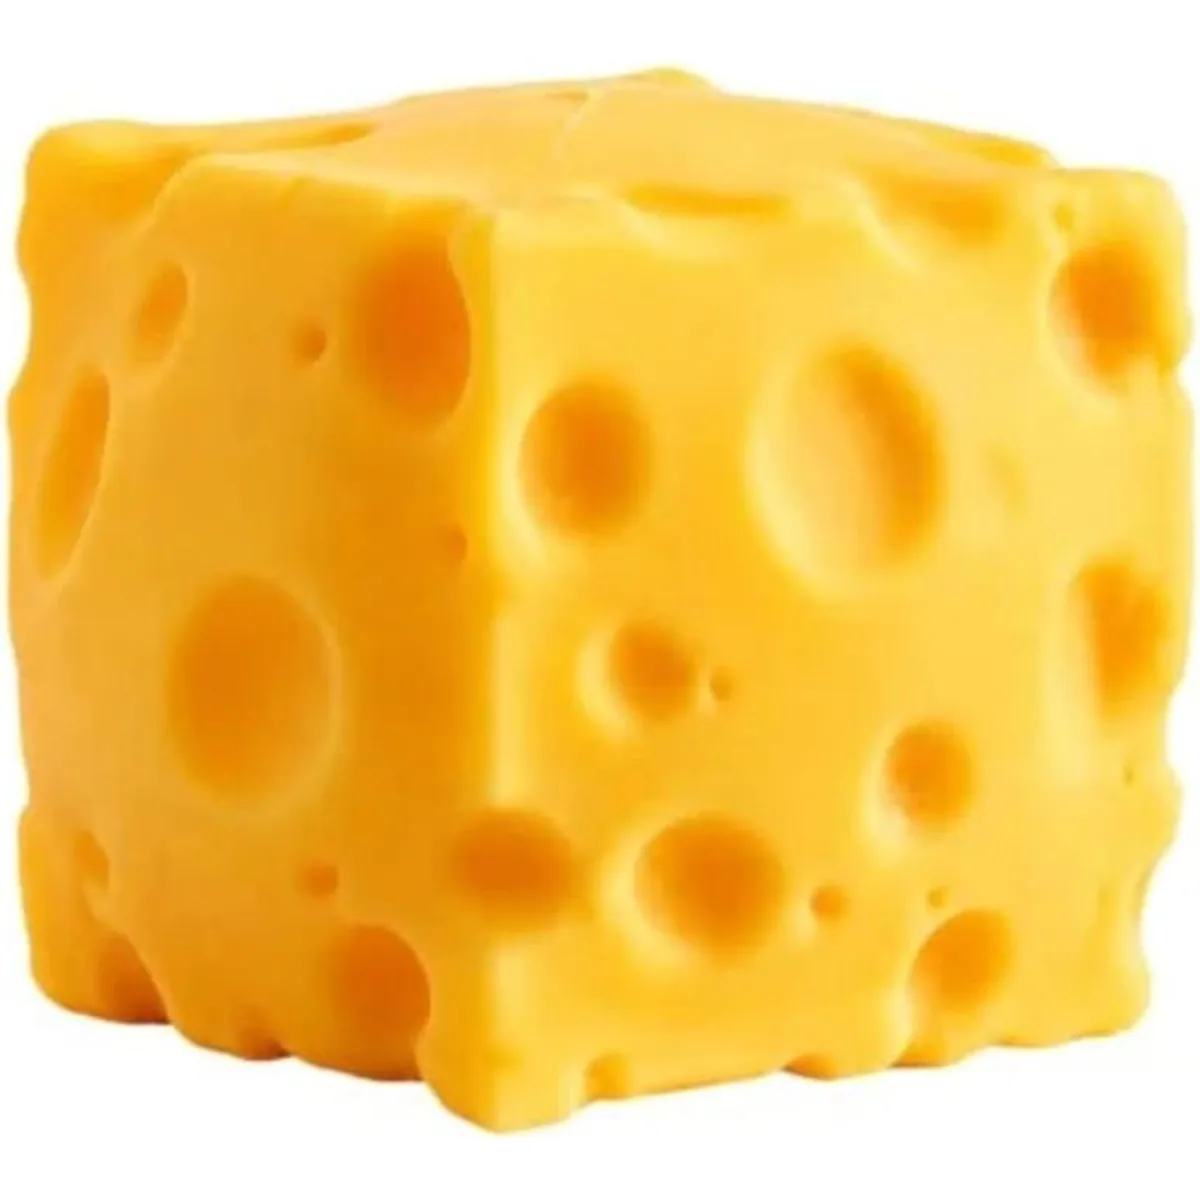
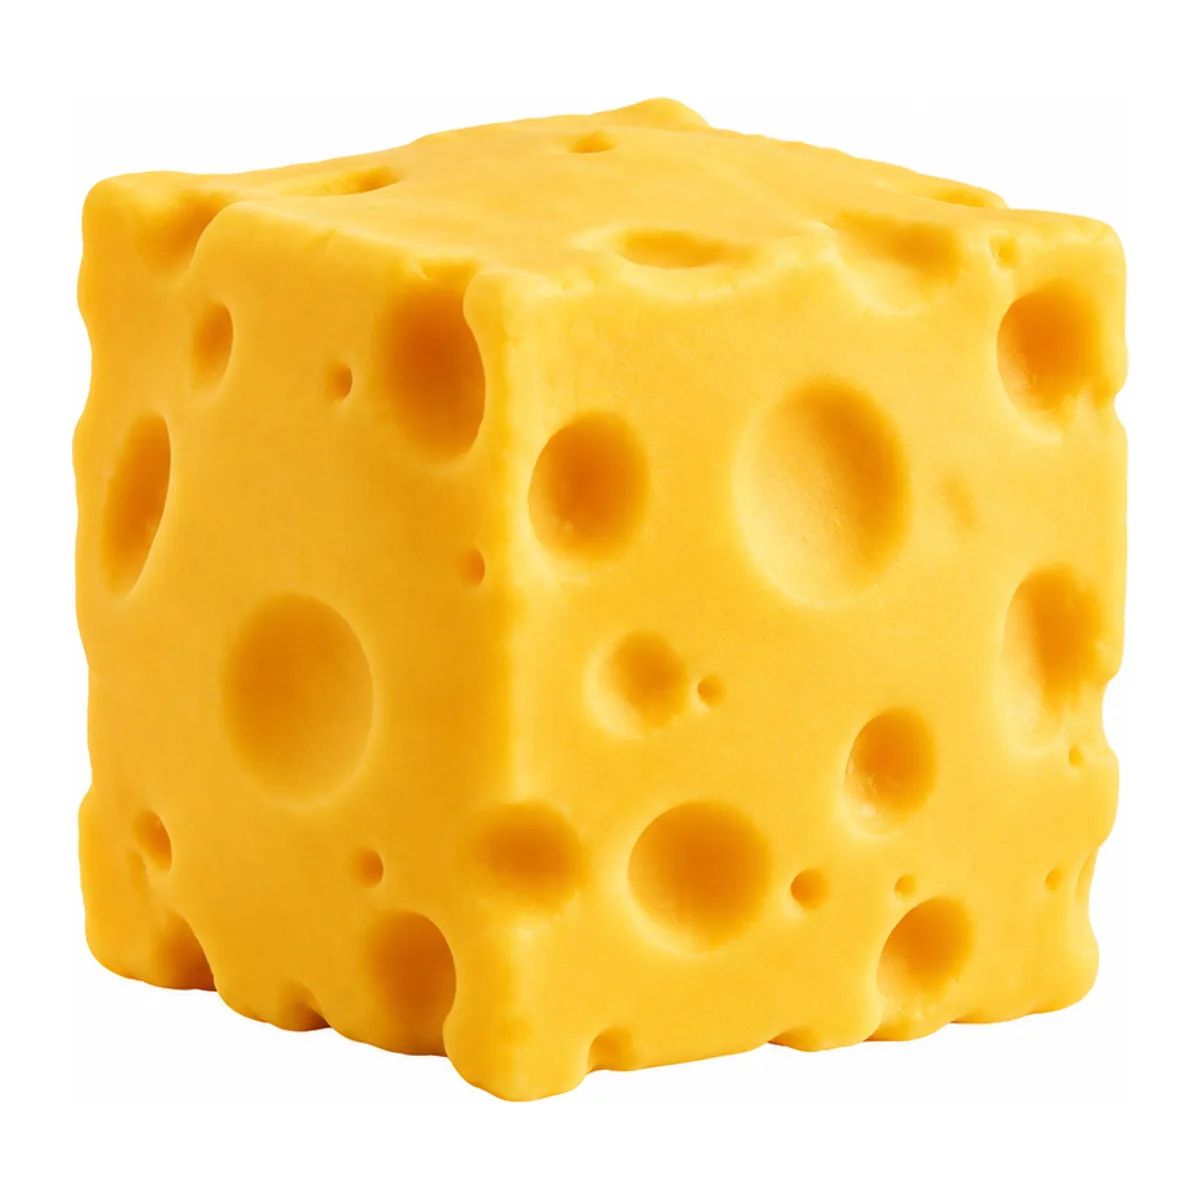
changes done

diff --git a/frontend/src/content/legal.ts b/frontend/src/content/legal.ts
@@ -3,9 +3,19 @@
  *
  * IMPORTANT — these are structured drafts, not legal advice. Every bracketed
  * [PLACEHOLDER] must be filled in, and the whole set must be reviewed by a
- * lawyer before launch. Dampeak sells to consumers, so the applicable regimes are
- * at least India's DPDP Act 2023 and the Consumer Protection (E-Commerce) Rules
- * 2020 — plus UK/EU GDPR the moment you ship there.
+ * lawyer before launch.
+ *
+ * The company is a Florida LLC selling to US consumers in USD, so the regimes
+ * that apply are US federal and Florida state consumer law — the FTC Act and
+ * its Mail, Internet, or Telephone Order Merchandise Rule, Florida's Deceptive
+ * and Unfair Trade Practices Act — plus state privacy law wherever customers
+ * are (California's CCPA/CPRA first among them), and UK/EU GDPR the moment you
+ * ship there.
+ *
+ * This file said India's DPDP Act and Consumer Protection (E-Commerce) Rules
+ * until the governing-law section was corrected. That was left over from an
+ * earlier reading of where the company sits; COMPANY.address is in Bradenton,
+ * Florida, the prices are USD and the phone is a US number.
  *
  * LEGAL_DRAFT rendered a visible notice on these pages saying exactly that. It
  * is off — turned off as a presentation decision, not because the review
@@ -27,7 +37,7 @@ export const COMPANY = {
    * do not know which of our inboxes their problem belongs to, and they should
    * not have to guess.
    */
-  email: "hello@dampeak.com",
+  email: "support@dampeak.com",
   /**
    * The support line and when it is answered.
    *
@@ -445,7 +455,8 @@ export const DOCS: Doc[] = [
       {
         heading: "Governing law",
         body: [
-          "These terms are governed by the laws of India. If you are a consumer resident elsewhere, you keep the protection of the mandatory laws of your country.",
+          `These terms are governed by the laws of the State of Florida and the federal laws of the United States, without regard to conflict-of-law rules. You and ${COMPANY.trading} agree that any dispute arising from them will be brought in the federal or state courts located in Florida, and you consent to venue and personal jurisdiction there.`,
+          "If you are a consumer resident outside the United States, you keep whatever protection the mandatory consumer laws of your own country give you. Nothing here takes that away.",
         ],
       },
     ],

diff --git a/frontend/src/content/site.ts b/frontend/src/content/site.ts
@@ -24,6 +24,8 @@
  * while the next one filled it. Squaring them is what makes a row of four look
  * like one shoot. The untouched originals are in design/ at the repo root.
  */
+import { COMPANY } from "@/content/legal";
+
 export type ProductPhoto = { src: string; alt: string };
 
 /**
@@ -242,7 +244,7 @@ export const site = {
         images: [
           {
             src: "/products/cheese-cube-1.webp",
-            alt: "The Cheese Cube squishy on white, moulded with holes across every face.",
+            alt: "The Cheese Cube squishy alone on white, moulded with holes across every face.",
           },
           {
             src: "/products/cheese-cube-2.webp",
@@ -399,7 +401,10 @@ export const site = {
     socials: [
       { label: "Instagram", href: "https://instagram.com" },
       { label: "TikTok", href: "https://tiktok.com" },
-      { label: "Email us", href: "mailto:hello@dampeak.com" },
+      // Read from COMPANY rather than typed again: this line was a second copy
+      // of the address, and a second copy is what made the site say two
+      // different inboxes the last time the address changed.
+      { label: "Email us", href: `mailto:${COMPANY.email}` },
     ],
   },
 } as const;

diff --git a/design/README.md b/design/README.md
@@ -16,7 +16,8 @@ loads is a derivative built from these and committed under
 | `Contact page.png` | `public/lifestyle/contact.webp` | WebP at 1400px wide |
 | `Product Gallery Cube/Rounded Cube1-3.png` | `public/products/blue-block-2…4.webp` | trim → square → pad → WebP |
 | `Product Gallery image Toasted/Toasted1-4.png` | `public/products/pillow-squish-2…5.webp` | trim → square → pad → WebP |
-| `Product Gallery Image Cheese/Cheese4.jpeg` | `public/products/cheese-cube-1.webp` | trim → square → pad → WebP |
+| `Chesese_Main_Image.png` | `public/products/cheese-cube-1.webp` | trim → square → pad → WebP |
+| `Product Gallery Image Cheese/Cheese4.jpeg` | — superseded as the main image | — |
 | `Product Gallery Image Cheese/Cheese1-3.jpeg` | `public/products/cheese-cube-2…4.webp` | trim → square → pad → WebP |
 | `Product Gallery Image Marble/Marble1-3.png` | `public/products/marble-cube-2…4.webp` | trim → square → pad → WebP |
 
@@ -32,10 +33,13 @@ goes.
 The cheese is the exception: all four of its images are now photographs of the
 real product, and its render is superseded. `Cheese cube stress squeeze squish
 Toy.png` stays here as the source it was, but nothing is built from it any more.
-Its replacement (`Cheese4.jpeg`) carries a lot of white, so it trims to 775px
-and is enlarged into the frame rather than sitting smaller in it than the other
-three products — a consistent margin is what makes a row of four read as one
-shoot, and it is displayed at 548px at the very most.
+The main image is now `Chesese_Main_Image.png` — the cube alone, lit and shot
+square on. (The spelling of that filename is the handover's, kept as it arrived
+so the source can still be found by name.) Like `Cheese4.jpeg` before it, it
+carries a lot of white and trims to 811px, so it is enlarged into the frame
+rather than sitting smaller in it than the other three products — a consistent
+margin is what makes a row of four read as one shoot, and it is displayed at
+548px at the very most.
 
 **Gallery sets.** The four `Product Gallery *` folders are the rest of each
 product's rail: the product alone, the product in a hand, and a second angle.
